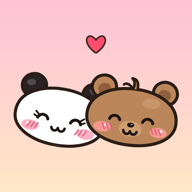
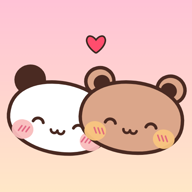
Bubu si Dudu redesenati dupa stickere: cap mare rotund, corp dolofan, ochi-buline, obrajori mari, gurita cu limbuta; sofer chubby

Changed region(s): [[0.0312, 0.3125, 1.0, 0.8125]]

diff --git a/src/char/draw.ts b/src/char/draw.ts
@@ -30,19 +30,19 @@ export const NPC_SPECS: Record<string, CharSpec> = {
 };
 
 export const SPECS: Record<CharId, CharSpec> = {
-  // Bubu = panda (fata): alba ca un mochi, urechi negre, obrajori roz, gene mici
+  // Bubu = panda (fata): alba si dolofana, urechi maro-inchis, obrajori roz
   bubu: {
-    id: 'bubu', name: 'Bubu', body: '#ffffff', shade: '#e9e1dc', ear: '#2a2222',
-    earInner: null, cheek: '#ffa3b8', outline: '#2b1d17', tail: '#2a2222', accessory: 'none',
+    id: 'bubu', name: 'Bubu', body: '#ffffff', shade: '#efe6e3', ear: '#4a2a22',
+    earInner: null, cheek: '#f9bdbd', outline: '#4a2a22', tail: '#4a2a22', accessory: 'none',
   },
-  // Dudu = ursul brun (baiatul): maro cald, botic mai deschis, smoc de par
+  // Dudu = ursuletul (baiatul): maro deschis-rozaliu, urechi cu interior inchis, obrajori galbui
   dudu: {
-    id: 'dudu', name: 'Dudu', body: '#bb875a', shade: '#9c6b43', ear: '#bb875a',
-    earInner: '#8f5f3b', cheek: '#ff9a9a', outline: '#2b1d17', tail: '#9c6b43', accessory: 'none',
+    id: 'dudu', name: 'Dudu', body: '#dba68a', shade: '#c8917a', ear: '#dba68a',
+    earInner: '#4a2a22', cheek: '#f9c47f', outline: '#4a2a22', tail: '#c8917a', accessory: 'none',
   },
 };
 
-const LW = 2.4; // grosimea conturului
+const LW = 2.7; // grosimea conturului
 
 function ell(ctx: CanvasRenderingContext2D, x: number, y: number, rx: number, ry: number) {
   ctx.beginPath();
@@ -111,12 +111,11 @@ export function drawCharacter(
     const lift2 = side < 0 ? p.legL : p.legR;
     const ox = side < 0 ? p.legLx : p.legRx;
     ctx.beginPath();
-    ctx.roundRect(side * 10 - 7.5 + ox, -11 - lift2, 15, 12, 6);
+    ctx.roundRect(side * 11 - 7 + ox, -9 - lift2, 14, 10, 6);
     fillStroke(ctx, bodyFill, O);
     if (!p.back) { // pernite
-      ctx.fillStyle = spec.id === 'dudu' ? '#ecc39a' : '#ffd3dd';
-      ell(ctx, side * 10 + ox, -4 - lift2, 3.8, 2.4); ctx.fill();
-      for (const k of [-3, 0, 3]) { ell(ctx, side * 10 + ox + k, -8 - lift2, 1.2, 1.1); ctx.fill(); }
+      ctx.fillStyle = spec.id === 'dudu' ? '#c8917a' : spec.id === 'bubu' ? '#4a2a22' : '#ffd3dd';
+      ell(ctx, side * 11 + ox, -3.5 - lift2, 3.4, 2); ctx.fill();
     }
   }
 
@@ -124,10 +123,10 @@ export function drawCharacter(
   ctx.save();
   ctx.translate(p.hip, 0);
   ctx.beginPath();
-  ctx.moveTo(-16, -36);
-  ctx.bezierCurveTo(-27, -30, -28, -4, -15, -3);
-  ctx.lineTo(15, -3);
-  ctx.bezierCurveTo(28, -4, 27, -30, 16, -36);
+  ctx.moveTo(-18, -34);
+  ctx.bezierCurveTo(-28, -26, -29, -3, -15, -2);
+  ctx.lineTo(15, -2);
+  ctx.bezierCurveTo(29, -3, 28, -26, 18, -34);
   ctx.closePath();
   fillStroke(ctx, bodyFill, O);
   ctx.save(); ctx.clip();
@@ -136,9 +135,6 @@ export function drawCharacter(
   ctx.restore();
   if (p.back) { // codita
     ell(ctx, 0, -12, 6, 5.5); fillStroke(ctx, spec.tail, O, 2);
-  } else if (spec.id === 'dudu') { // burtica mai deschisa
-    ctx.fillStyle = '#dcae80'; ctx.globalAlpha = 0.6;
-    ell(ctx, 0, -16, 11, 9); ctx.fill(); ctx.globalAlpha = 1;
   }
   ctx.restore();
 
@@ -146,9 +142,9 @@ export function drawCharacter(
   // --- manute scurte ---
   const arm = (side: -1 | 1, ang: number, prop: PropType, propRot: number) => {
     ctx.save();
-    ctx.translate(side * 19 + p.hip * 0.5, -27);
+    ctx.translate(side * 21 + p.hip * 0.5, -25);
     ctx.rotate(side < 0 ? ang : -ang);
-    capsule(ctx, 11, 9);
+    capsule(ctx, 11, 7);
     fillStroke(ctx, bodyFill, O);
     if (prop !== 'none') {
       ctx.translate(0, 11);
@@ -160,12 +156,12 @@ export function drawCharacter(
   arm(-1, p.armL, p.propL, p.propRotL);
   arm(1, p.armR, p.propR, p.propRotR);
 
-  drawHead(ctx, spec, p, time, -52);
+  drawHead(ctx, spec, p, time, -56);
   ctx.restore();
 }
 
 let curOutfit: Outfit | undefined;
-const HW = 35, HH = 28; // marimea capului (mare, ca la stickere)
+const HW = 40, HH = 35; // marimea capului (mare, ca la stickere)
 
 function drawHead(ctx: CanvasRenderingContext2D, spec: CharSpec, p: Pose, time: number, baseY: number) {
   const O = spec.outline;
@@ -193,11 +189,10 @@ function drawHead(ctx: CanvasRenderingContext2D, spec: CharSpec, p: Pose, time: 
       ctx.translate(side * 29, -8); ctx.rotate(side * (-0.25 + Math.sin(time * 3) * 0.05));
       ell(ctx, 0, 6, 8, 15); fillStroke(ctx, spec.ear, O);
     } else {
-      ctx.translate(side * 24, -20);
-      ctx.rotate(side * (0.25 + ew * 0.3));
-      ell(ctx, 0, 0, 9.5, 9); fillStroke(ctx, spec.ear, O);
-      if (spec.earInner) { ctx.fillStyle = spec.earInner; ell(ctx, 0, 1.5, 5, 4.4); ctx.fill(); }
-      else { ctx.fillStyle = 'rgba(255,255,255,0.18)'; ell(ctx, -2, -2.5, 3.5, 2.5); ctx.fill(); }
+      ctx.translate(side * 28, -24);
+      ctx.rotate(side * (0.35 + ew * 0.3));
+      ell(ctx, 0, 0, 11, 10.5); fillStroke(ctx, spec.ear, O);
+      if (spec.earInner) { ctx.fillStyle = spec.earInner; ell(ctx, -side * 1.2, 1.5, 6.4, 6); ctx.fill(); }
     }
     ctx.restore();
   }
@@ -205,22 +200,14 @@ function drawHead(ctx: CanvasRenderingContext2D, spec: CharSpec, p: Pose, time: 
   fillStroke(ctx, bodyFill, O);
   // umbra fina jos + luciu sus
   ctx.save(); mochiPath(ctx, HW, HH); ctx.clip();
-  ctx.fillStyle = spec.shade; ctx.globalAlpha = spec.id === 'bubu' ? 0.45 : 0.35;
-  ell(ctx, 4, HH + 6, HW * 1.05, 11); ctx.fill();
-  ctx.globalAlpha = spec.id === 'bubu' ? 0 : 0.22; ctx.fillStyle = '#f3cfa6';
-  ell(ctx, -14, -11, 7, 4); ctx.fill();
+  ctx.fillStyle = spec.shade; ctx.globalAlpha = 0.3;
+  ell(ctx, 4, HH + 8, HW * 1.05, 11); ctx.fill();
   ctx.restore();
-  // smocul de par al lui Dudu
-  if (spec.id === 'dudu') {
-    ctx.strokeStyle = O; ctx.lineWidth = 2; ctx.fillStyle = bodyFill;
-    ctx.beginPath(); ctx.moveTo(-2, -20.5); ctx.quadraticCurveTo(-3, -29, 3, -29); ctx.quadraticCurveTo(-0.5, -26, 1.5, -21); ctx.fill(); ctx.stroke();
-    ctx.beginPath(); ctx.moveTo(1.5, -21); ctx.quadraticCurveTo(6, -26, 9, -23.5); ctx.stroke();
-  }
   if (spec.accessory === 'bow') drawBow(ctx, 17, -23, O);
 
   if (!p.back) { drawFace(ctx, spec, p, time); if (curOutfit && curOutfit.face !== 'none') drawFaceItem(ctx, curOutfit.face); }
   if (curOutfit && curOutfit.head !== 'none') drawHeadItem(ctx, curOutfit.head, time);
-  else { // ceafa
+  if (p.back) { // ceafa
     ctx.strokeStyle = O; ctx.lineWidth = 1.8;
     ctx.beginPath(); ctx.moveTo(-5, 22); ctx.quadraticCurveTo(0, 18, 5, 22); ctx.stroke();
   }
@@ -231,20 +218,18 @@ function drawHead(ctx: CanvasRenderingContext2D, spec: CharSpec, p: Pose, time: 
 }
 
 function drawFace(ctx: CanvasRenderingContext2D, spec: CharSpec, p: Pose, t: number) {
-  const O = '#1f1512';
-  const ex = 13, ey = 3 + p.pupilDy;
+  const O = '#4a2a22';
+  const ex = 16, ey = 6 + p.pupilDy;
   // obrajori roz, cu un mic luciu
   if (p.blush > 0) {
     const a = Math.min(1, p.blush);
-    ctx.fillStyle = spec.cheek; ctx.globalAlpha = a * 0.85;
-    ell(ctx, -22, 11, 6.8, 4); ctx.fill();
-    ell(ctx, 22, 11, 6.8, 4); ctx.fill();
-    ctx.globalAlpha = a * 0.8; ctx.fillStyle = '#fff';
-    ell(ctx, -24, 9.6, 1.4, 1); ctx.fill(); ell(ctx, 20, 9.6, 1.4, 1); ctx.fill();
+    ctx.fillStyle = spec.cheek; ctx.globalAlpha = a * 0.95;
+    ell(ctx, -27, 15, 8.5, 7.6); ctx.fill();
+    ell(ctx, 27, 15, 8.5, 7.6); ctx.fill();
     if (p.blush > 1) { // linii de rusine
       ctx.strokeStyle = '#e0607e'; ctx.lineWidth = 1.2; ctx.globalAlpha = 0.9;
       for (const s of [-1, 1]) for (let i = 0; i < 3; i++) {
-        ctx.beginPath(); ctx.moveTo(s * 19 + i * 3 - 3, 8.5); ctx.lineTo(s * 19 + i * 3 - 5, 12.5); ctx.stroke();
+        ctx.beginPath(); ctx.moveTo(s * 25 + i * 3 - 3, 12.5); ctx.lineTo(s * 25 + i * 3 - 5, 16.5); ctx.stroke();
       }
     }
     ctx.globalAlpha = 1;
@@ -260,27 +245,8 @@ function drawFace(ctx: CanvasRenderingContext2D, spec: CharSpec, p: Pose, t: num
       if (spec.ears === 'cat') { ctx.strokeStyle = O; ctx.lineWidth = 1; for (const s2 of [-1, 1]) for (const k of [-1, 1]) { ctx.beginPath(); ctx.moveTo(s2 * 9, 10 + k); ctx.lineTo(s2 * 20, 9 + k * 3); ctx.stroke(); } }
     }
   }
-  // botic deschis + nasuc (Dudu)
-  if (spec.id === 'dudu') {
-    ctx.fillStyle = '#d6a77a'; ctx.globalAlpha = 0.75; ell(ctx, 0, 10.5, 9, 6.2); ctx.fill(); ctx.globalAlpha = 1;
-    ctx.fillStyle = O; ell(ctx, 0, 7.4, 2.8, 1.9); ctx.fill();
-    ctx.fillStyle = '#ffffff88'; ell(ctx, -0.8, 6.9, 0.9, 0.5); ctx.fill();
-  }
   drawEye(ctx, -ex + p.pupilDx, ey, -1, p.eyes, O, t);
   drawEye(ctx, ex + p.pupilDx, ey, 1, p.eyesR ?? p.eyes, O, t);
-  // genele mici ale lui Bubu
-  if (spec.id === 'bubu') {
-    ctx.strokeStyle = O; ctx.lineWidth = 1.4;
-    for (const s of [-1, 1]) {
-      const et = s < 0 ? p.eyes : (p.eyesR ?? p.eyes);
-      if (et === 'dot' || et === 'happy' || et === 'closed' || et === 'wink' || et === 'sad' || et === 'half') {
-        const x0 = s * ex + p.pupilDx + s * 3, y0 = ey - (et === 'dot' || et === 'sad' ? 3 : 1);
-        ctx.beginPath(); ctx.moveTo(x0, y0); ctx.lineTo(x0 + s * 3, y0 - 2.5);
-        ctx.moveTo(x0 + s * 0.8, y0 + 2); ctx.lineTo(x0 + s * 4, y0 + 0.5); ctx.stroke();
-      }
-    }
-  }
-
   // sprancene
   if (p.brows !== 'none') {
     ctx.strokeStyle = O; ctx.lineWidth = 2.1;
@@ -292,7 +258,7 @@ function drawFace(ctx: CanvasRenderingContext2D, spec: CharSpec, p: Pose, t: num
       ctx.stroke();
     }
   }
-  drawMouth(ctx, p.mouth, spec.id === 'dudu' || (spec.muzzle && spec.ears !== 'pig') ? 12 : spec.ears === 'pig' ? 15.5 : 9.5, O, t);
+  drawMouth(ctx, p.mouth, spec.muzzle && spec.ears !== 'pig' ? 12 : spec.ears === 'pig' ? 15.5 : 11, O, t);
 
   if (p.tears > 0) drawTears(ctx, ex, ey, p.tears, t);
   if (p.snot > 0) {
@@ -309,8 +275,7 @@ function drawEye(ctx: CanvasRenderingContext2D, x: number, y: number, side: numb
     case 'dot':
     case 'angry':
     case 'sad':
-      ell(ctx, x, y, 3.3, 3.9); ctx.fill();
-      ctx.fillStyle = '#fff'; ell(ctx, x - 1, y - 1.4, 1.1, 1.1); ctx.fill();
+      ell(ctx, x, y, 4.6, 5.1); ctx.fill();
       break;
     case 'side':
       ell(ctx, x + 2, y, 3.3, 3.9); ctx.fill();
@@ -376,10 +341,14 @@ function drawMouth(ctx: CanvasRenderingContext2D, type: MouthType, y: number, O:
       ctx.arc(-2.6, y, 2.6, Math.PI * 0.05, Math.PI * 0.95);
       ctx.moveTo(5.2, y); ctx.arc(2.6, y, 2.6, Math.PI * 0.05, Math.PI * 0.95);
       ctx.stroke(); break;
-    case 'open':
-      ctx.beginPath(); ctx.moveTo(-5, y - 1); ctx.quadraticCurveTo(0, y + 9, 5, y - 1); ctx.closePath();
-      ctx.fillStyle = '#7a2b34'; ctx.fill(); ctx.stroke();
-      ctx.fillStyle = '#ff7f96'; ell(ctx, 0, y + 3.2, 2.6, 1.4); ctx.fill(); break;
+    case 'open': { // guriță mică, deschisă, cu limbuța roz (ca la stickere)
+      ctx.beginPath(); ctx.moveTo(-4.5, y - 1.5);
+      ctx.quadraticCurveTo(-2.2, y + 0.8, 0, y - 1.2); ctx.quadraticCurveTo(2.2, y + 0.8, 4.5, y - 1.5);
+      ctx.quadraticCurveTo(4.2, y + 7.5, 0, y + 8); ctx.quadraticCurveTo(-4.2, y + 7.5, -4.5, y - 1.5); ctx.closePath();
+      ctx.fillStyle = '#ff8a9a'; ctx.fill(); ctx.lineWidth = 1.9; ctx.stroke();
+      ctx.fillStyle = '#ffb3be'; ell(ctx, 0, y + 5, 2.2, 1.6); ctx.fill();
+      break;
+    }
     case 'grin':
       ctx.beginPath(); ctx.moveTo(-8, y - 2); ctx.quadraticCurveTo(0, y + 11, 8, y - 2); ctx.closePath();
       ctx.fillStyle = '#7a2b34'; ctx.fill(); ctx.stroke();

diff --git a/src/world/vehicles.ts b/src/world/vehicles.ts
@@ -3,7 +3,7 @@ import { drawCharacter, type CharSpec } from '../char/draw';
 import { basePose } from '../char/pose';
 import { iso, isoBox, boxOf, shade } from './iso';
 
-const O = '#2b1d17';
+const O = '#4a2a22';
 const RED = '#e5383b', RED_D = '#b81d24', RED_L = '#ff6b6b';
 
 function wheel(c: CanvasRenderingContext2D, x: number, y: number, r: number, rot: number, hub = '#ffd23f') {
@@ -74,16 +74,16 @@ export function drawTractorSide(c: CanvasRenderingContext2D, x: number, y: numbe
   c.fillStyle = RED_D; c.strokeStyle = O; c.lineWidth = 2.5; c.beginPath(); c.moveTo(-40, -40); c.quadraticCurveTo(-40, -74, -8, -74); c.lineTo(6, -74); c.lineTo(6, -40); c.closePath(); c.fill(); c.stroke();
   c.fillStyle = '#5a4a42'; c.beginPath(); c.roundRect(-24, -84, 20, 10, 3); c.fill(); c.stroke(); // scaunul
   // stalpul din spate al cabinei (in spatele soferului)
-  c.fillStyle = '#3d3d47'; c.strokeStyle = O; c.lineWidth = 2; c.beginPath(); c.roundRect(-40, -182, 5, 110, 2); c.fill(); c.stroke();
+  c.fillStyle = '#3d3d47'; c.strokeStyle = O; c.lineWidth = 2; c.beginPath(); c.roundRect(-40, -194, 5, 122, 2); c.fill(); c.stroke();
   c.fillStyle = '#5a4a42'; c.beginPath(); c.roundRect(-32, -118, 9, 36, 4); c.fill(); c.stroke(); // spatarul scaunului
   // soferul (sprite din profil, asezat, cu labutele pe volan)
   const steer = Math.sin(t * 1.7) * 0.18 + Math.sin(t * 4.3) * 0.05;
   if (opt.passenger) drawDriverSide(c, opt.passenger, -40, -84, 0.85, t + 1, 0, false);
   if (opt.driver) drawDriverSide(c, opt.driver, -14, -84, 1, t, steer, true);
   // stalpul din fata + acoperisul (cadru peste sofer)
-  c.fillStyle = '#3d3d47'; c.strokeStyle = O; c.lineWidth = 2; c.beginPath(); c.roundRect(30, -182, 5, 112, 2); c.fill(); c.stroke();
-  c.fillStyle = RED; c.beginPath(); c.roundRect(-48, -190, 88, 11, 5); c.fill(); c.stroke();
-  c.fillStyle = RED_L; c.beginPath(); c.roundRect(-44, -188, 76, 3, 2); c.fill();
+  c.fillStyle = '#3d3d47'; c.strokeStyle = O; c.lineWidth = 2; c.beginPath(); c.roundRect(30, -194, 5, 124, 2); c.fill(); c.stroke();
+  c.fillStyle = RED; c.beginPath(); c.roundRect(-48, -202, 88, 11, 5); c.fill(); c.stroke();
+  c.fillStyle = RED_L; c.beginPath(); c.roundRect(-44, -200, 76, 3, 2); c.fill();
   // aripa fata
   c.fillStyle = RED_D; c.strokeStyle = O; c.lineWidth = 2.5; c.beginPath(); c.arc(52, -28, 17, Math.PI * 1.05, Math.PI * 1.95); c.lineTo(66, -30); c.lineTo(38, -30); c.closePath(); c.fill(); c.stroke();
   c.restore();
@@ -192,60 +192,57 @@ export function irisWipe(c: CanvasRenderingContext2D, w: number, h: number, open
  */
 export function drawDriverSide(c: CanvasRenderingContext2D, spec: CharSpec, x: number, y: number, s: number, t: number, steer: number, drive: boolean) {
   const body = spec.body, dark = spec.shade, isDudu = spec.id === 'dudu';
-  const pad = isDudu ? '#ecc39a' : '#ffd3dd';
+  const pad = isDudu ? '#c8917a' : '#4a2a22';
   const bob = Math.sin(t * 9) * 0.8;
   c.save(); c.translate(x, y + bob); c.scale(s, s); c.lineJoin = 'round'; c.lineCap = 'round';
   const fill = (col: string, lw = 2.4) => { c.fillStyle = col; c.fill(); c.strokeStyle = O; c.lineWidth = lw; c.stroke(); };
   // piciorul din spate (mai inchis)
   c.save(); c.globalAlpha = 0.9;
-  c.beginPath(); c.roundRect(-2, -8, 24, 11, 5.5); fill(dark);
-  c.beginPath(); c.roundRect(16, -6, 10, 22, 5); fill(dark);
+  c.beginPath(); c.roundRect(-2, -8, 20, 12, 6); fill(dark);
+  c.beginPath(); c.roundRect(12, -5, 11, 15, 5.5); fill(dark);
   c.restore();
   // mana din spate (pe volan, partial ascunsa)
-  if (drive) { c.save(); c.translate(-2, -32); c.rotate(-0.18 + steer * 0.4); c.beginPath(); c.roundRect(-5, -5, 38, 10, 5); fill(dark); c.restore(); }
+  if (drive) { c.save(); c.translate(-2, -24); c.rotate(-0.2 + steer * 0.4); c.beginPath(); c.roundRect(-5, -5.5, 26, 11, 5.5); fill(dark); c.restore(); }
   // corpul asezat, aplecat putin in fata
   c.save(); c.rotate(0.12);
-  c.beginPath(); c.moveTo(-14, 2); c.bezierCurveTo(-20, -18, -14, -40, 2, -42); c.bezierCurveTo(16, -42, 20, -18, 14, 2); c.closePath(); fill(body);
-  if (isDudu) { c.fillStyle = '#dcae80'; c.globalAlpha = 0.6; c.beginPath(); c.ellipse(8, -18, 7, 11, 0, 0, 7); c.fill(); c.globalAlpha = 1; }
+  c.beginPath(); c.moveTo(-17, 2); c.bezierCurveTo(-25, -14, -18, -32, 0, -33); c.bezierCurveTo(18, -33, 24, -14, 16, 2); c.closePath(); fill(body);
   // codita
   c.beginPath(); c.arc(-15, -4, 5, 0, 7); fill(spec.tail, 1.8);
   c.restore();
   // piciorul din fata: coapsa inainte, gamba in jos spre pedala, talpa cu pernite
-  c.beginPath(); c.roundRect(-2, -10, 28, 12, 6); fill(body);
-  c.beginPath(); c.roundRect(18, -8, 12, 24, 6); fill(body);
-  c.beginPath(); c.ellipse(26, 16, 9, 5, 0, 0, 7); fill(body);
-  c.fillStyle = pad; c.beginPath(); c.ellipse(28, 18, 4, 2.4, 0, 0, 7); c.fill();
-  // capul din profil (mochi), cu urechea si fata spre dreapta
-  c.save(); c.translate(6, -64); c.rotate(-0.04 + steer * 0.15);
+  c.beginPath(); c.roundRect(-2, -10, 23, 13, 6.5); fill(body);
+  c.beginPath(); c.roundRect(14, -6, 12, 16, 6); fill(body);
+  c.beginPath(); c.ellipse(21, 11, 8, 4.5, 0, 0, 7); fill(body);
+  c.fillStyle = pad; c.beginPath(); c.ellipse(23, 12.5, 3.4, 2, 0, 0, 7); c.fill();
+  // capul din profil: mare si rotund (ca la stickere), fata spre dreapta
+  c.save(); c.translate(6, -56); c.rotate(-0.04 + steer * 0.12);
+  const earCol = spec.ear, inner = spec.earInner;
   // urechea din spate
-  c.beginPath(); c.ellipse(-12, -22, 8, 8, 0, 0, 7); fill(spec.ear);
-  c.beginPath(); c.moveTo(-28, 2); c.bezierCurveTo(-28, -26, 24, -28, 27, -2); c.bezierCurveTo(29, 18, 14, 24, 0, 24); c.bezierCurveTo(-18, 24, -28, 18, -28, 2); c.closePath(); fill(body);
-  c.save(); c.clip(); c.fillStyle = dark; c.globalAlpha = 0.3; c.beginPath(); c.ellipse(-4, 26, 30, 9, 0, 0, 7); c.fill(); c.restore();
+  c.beginPath(); c.ellipse(-16, -26, 10, 10, 0, 0, 7); fill(earCol);
+  if (inner) { c.fillStyle = inner; c.beginPath(); c.ellipse(-16, -25, 6, 6, 0, 0, 7); c.fill(); }
+  c.beginPath(); c.moveTo(-32, 4); c.bezierCurveTo(-33, -30, 28, -32, 31, -2); c.bezierCurveTo(33, 22, 16, 28, 0, 28); c.bezierCurveTo(-20, 28, -32, 22, -32, 4); c.closePath(); fill(body, 2.7);
+  c.save(); c.clip(); c.fillStyle = dark; c.globalAlpha = 0.3; c.beginPath(); c.ellipse(-4, 30, 34, 9, 0, 0, 7); c.fill(); c.restore();
   // urechea din fata
-  c.beginPath(); c.ellipse(2, -24, 9, 8.5, 0.2, 0, 7); fill(spec.ear);
-  if (spec.earInner) { c.fillStyle = spec.earInner; c.beginPath(); c.ellipse(2, -23, 4.5, 4, 0.2, 0, 7); c.fill(); }
-  if (isDudu) { // smocul de par
-    c.strokeStyle = O; c.lineWidth = 2; c.fillStyle = body; c.beginPath(); c.moveTo(-6, -23); c.quadraticCurveTo(-6, -32, 0, -31); c.quadraticCurveTo(-3, -28, -2, -23); c.fill(); c.stroke();
-  }
-  // botul (Dudu) / obrazul (Bubu)
-  if (isDudu) { c.beginPath(); c.ellipse(24, 6, 9, 7, 0, 0, 7); c.fillStyle = '#d6a77a'; c.fill(); c.strokeStyle = O; c.lineWidth = 2; c.stroke(); c.fillStyle = O; c.beginPath(); c.ellipse(31, 3, 3, 2.2, 0, 0, 7); c.fill(); }
-  c.fillStyle = spec.cheek; c.globalAlpha = 0.85; c.beginPath(); c.ellipse(11, 8, 6.5, 4, 0, 0, 7); c.fill(); c.globalAlpha = 1;
-  // ochiul (fericit, privind drumul) + gene la Bubu
+  c.beginPath(); c.ellipse(4, -29, 11, 10.5, 0.25, 0, 7); fill(earCol);
+  if (inner) { c.fillStyle = inner; c.beginPath(); c.ellipse(5, -28, 6.4, 6, 0.25, 0, 7); c.fill(); }
+  // obrajorul mare
+  c.fillStyle = spec.cheek; c.globalAlpha = 0.95; c.beginPath(); c.ellipse(16, 12, 8.5, 7.6, 0, 0, 7); c.fill(); c.globalAlpha = 1;
+  // ochiul: bulina mare maro-inchis (clipeste)
   const blink = (t % 3.6) < 0.12;
-  c.strokeStyle = O; c.fillStyle = O; c.lineWidth = 2.2;
-  if (blink) { c.beginPath(); c.moveTo(10, 0); c.lineTo(17, 0); c.stroke(); }
-  else { c.beginPath(); c.ellipse(14, -1, 3.2, 3.8, 0, 0, 7); c.fill(); c.fillStyle = '#fff'; c.beginPath(); c.arc(13, -2.5, 1.1, 0, 7); c.fill(); }
-  if (!isDudu) { c.lineWidth = 1.4; c.beginPath(); c.moveTo(16, -4); c.lineTo(19, -7); c.moveTo(17, -2); c.lineTo(20.5, -3.5); c.stroke(); }
-  // gura: zambet deschis
-  c.beginPath(); c.moveTo(isDudu ? 22 : 18, isDudu ? 12 : 10); c.quadraticCurveTo(isDudu ? 26 : 22, isDudu ? 16 : 14, isDudu ? 29 : 25, isDudu ? 11 : 9); c.strokeStyle = O; c.lineWidth = 2; c.stroke();
+  c.fillStyle = O; c.strokeStyle = O; c.lineWidth = 2.4;
+  if (blink) { c.beginPath(); c.moveTo(14, 2); c.lineTo(22, 2); c.stroke(); }
+  else { c.beginPath(); c.ellipse(18, 1, 4.4, 5, 0, 0, 7); c.fill(); }
+  // gurita deschisa cu limbuta
+  c.beginPath(); c.moveTo(26, 9); c.quadraticCurveTo(28, 11, 30, 9); c.quadraticCurveTo(30.5, 15, 27, 15.5); c.quadraticCurveTo(25, 14, 26, 9); c.closePath();
+  c.fillStyle = '#ff8a9a'; c.fill(); c.lineWidth = 1.8; c.stroke();
   c.restore();
   // mana din fata: pe volan (sau salut, ca pasager)
-  if (drive) { c.save(); c.translate(4, -32); c.rotate(-0.12 + steer * 0.4); c.beginPath(); c.roundRect(-5, -5.5, 34, 11, 5.5); fill(body); c.beginPath(); c.arc(31, 0, 6.5, 0, 7); fill(body); c.restore(); }
-  else { c.save(); c.translate(4, -34); c.rotate(-2.3 + Math.sin(t * 8) * 0.3); c.beginPath(); c.roundRect(-5, -5.5, 26, 11, 5.5); fill(body); c.restore(); }
+  if (drive) { c.save(); c.translate(4, -24); c.rotate(-0.15 + steer * 0.4); c.beginPath(); c.roundRect(-5, -6, 25, 12, 6); fill(body); c.beginPath(); c.arc(21, 0, 7, 0, 7); fill(body); c.restore(); }
+  else { c.save(); c.translate(4, -26); c.rotate(-2.3 + Math.sin(t * 8) * 0.3); c.beginPath(); c.roundRect(-5, -5.5, 26, 11, 5.5); fill(body); c.restore(); }
   c.restore();
   // volanul (desenat peste labute), doar pentru sofer
   if (drive) {
-    c.save(); c.translate(x + 38 * s, y - 36 * s + bob);
+    c.save(); c.translate(x + 29 * s, y - 27 * s + bob);
     c.strokeStyle = '#333'; c.lineWidth = 3.5; c.beginPath(); c.moveTo(0, 0); c.lineTo(10, 30); c.stroke(); // coloana
     c.rotate(-0.45); c.lineWidth = 3.5; c.beginPath(); c.ellipse(0, 0, 4, 13, 0, 0, 7); c.stroke();
     c.save(); c.rotate(steer * 2); c.lineWidth = 2; c.beginPath(); c.moveTo(0, -12); c.lineTo(0, 12); c.stroke(); c.restore();

diff --git a/src/char/actor.ts b/src/char/actor.ts
@@ -9,8 +9,8 @@ import type { Outfit } from './outfit';
 export type Mood = 'happy' | 'calm' | 'sad' | 'angry' | 'sleepy' | 'sick' | 'hungry' | 'love' | 'sulky' | 'cold';
 
 const MOOD_FACE: Record<Mood, Partial<Pose>> = {
-  happy: { eyes: 'dot', mouth: 'w', blush: 0.7 },
-  calm: { eyes: 'dot', mouth: 'smile', blush: 0.5 },
+  happy: { eyes: 'dot', mouth: 'open', blush: 1 },
+  calm: { eyes: 'dot', mouth: 'w', blush: 0.9 },
   sad: { eyes: 'sad', mouth: 'frown', brows: 'sad', blush: 0.4, headDy: 2 },
   angry: { eyes: 'angry', mouth: 'frown', brows: 'angry', vein: 0.7, blush: 0.9 },
   sleepy: { eyes: 'half', mouth: 'o', blush: 0.4, headDy: 2, snot: 0.4 },

diff --git a/src/char/pose.ts b/src/char/pose.ts
@@ -38,7 +38,7 @@ export interface Pose {
 export const basePose = (): Pose => ({
   dx: 0, dy: 0, sx: 1, sy: 1, rot: 0,
   headDx: 0, headDy: 0, headRot: 0,
-  armL: 0.25, armR: 0.25, legL: 0, legR: 0, legLx: 0, legRx: 0, hip: 0,
+  armL: 0.55, armR: 0.55, legL: 0, legR: 0, legLx: 0, legRx: 0, hip: 0,
   eyes: 'dot', mouth: 'smile', brows: 'none', blush: 0.55,
   pupilDx: 0, pupilDy: 0, back: false,
   propL: 'none', propR: 'none', propRotL: 0, propRotR: 0,

diff --git a/src/char/anims.ts b/src/char/anims.ts
@@ -40,7 +40,7 @@ export const IDLE = def({
     const b = wave(t, 0.45, 1);
     P.sy = 1 + b * 0.022; P.sx = 1 - b * 0.012;
     P.headDy = b * 0.8;
-    P.armL = 0.25 + wave(t, 0.45, 0.04); P.armR = 0.25 + wave(t, 0.45, 0.04, 1);
+    P.armL = 0.55 + wave(t, 0.45, 0.05); P.armR = 0.55 + wave(t, 0.45, 0.05, 1);
   },
 });
 
